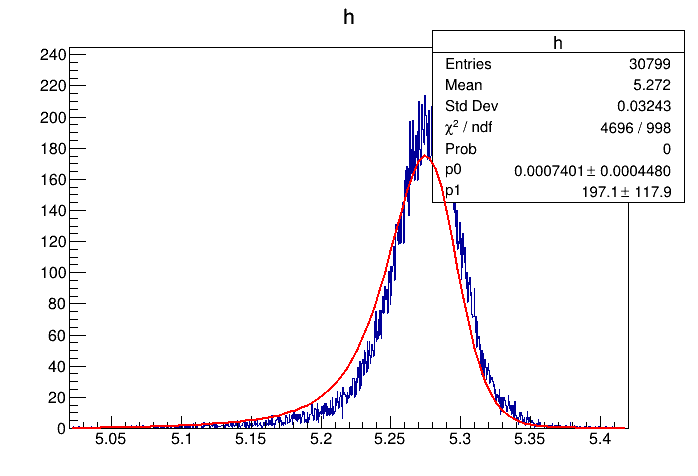
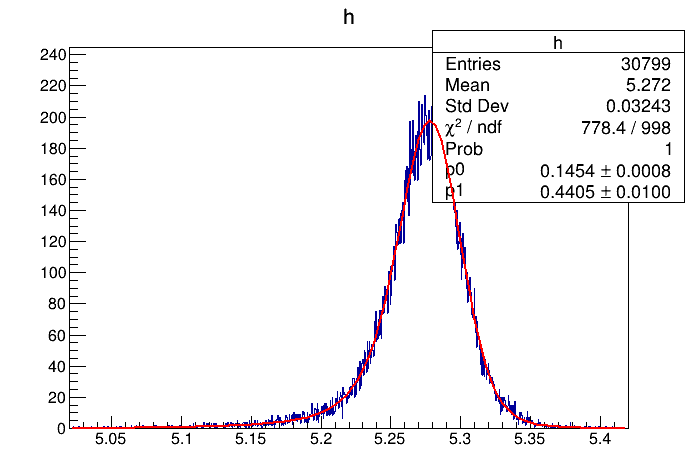
Template fit ultimated with fraction estimate

diff --git a/template_fit/fit_functions.cpp b/template_fit/fit_functions.cpp
@@ -32,7 +32,7 @@ double GaussJohnson(double* x, double* par) {
 
 double TemplateComposition(double* x, double* par) {
     // In total has 16 parameters
-    return par[0]*(par[1]*GaussJohnson(x, &par[2]) + (1-par[1])*DoubleGaussian(x, &par[6]));
+    return par[0]*(par[1]*GaussJohnson(x, &par[2]) + (1-par[1])*DoubleGaussian(x, &par[10]));
 }
 
 
